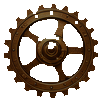
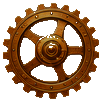
feat: yan sutun/kose carklari, kondansator isiklari ve buhar Vocal Lab'a bagli; tum carklar asset disliyle
- sag sutun: vana + 2 kose carki surekli doner; 2 boru carki, 4 kondansator isigi ve buhar yalniz Vocal Lab (CHAIN ON) acikken
- eski carklar zeminden silindi, carklarin arkasinda borular devam eder, kose carklarinin arkasi koyu izgara
- Session/Enhancer/yan carklar sk-gear.png'den (seffaf aralar, koyulastirilmis ve doygunlugu artirilmis)
- araclar: studio_sidefx.py, studio_sessplate.py, studio_sgears.py

diff --git a/src/preload.js b/src/preload.js
@@ -2736,8 +2736,8 @@ if (isAutotunePage()) {
     .enh-gear i { position:absolute; inset:0; background:center / 100% 100% no-repeat; animation:enh-spin 16s linear infinite; animation-play-state:paused; }
     .section.enh.enh-on .enh-gear i { animation-play-state:running; }
     .enh-gear.big { -webkit-mask-image:${T('sk-st-gear-big-mask.png')}; } .enh-gear.big i { background-image:${T('sk-st-gear-big.png')}; }
-    .enh-gear.r { -webkit-mask-image:${T('sk-st-gear-r-mask.png')}; } .enh-gear.r i { background-image:${T('sk-st-gear-r.png')}; animation-duration:9s; animation-direction:reverse; }
-    .enh-gear.l { -webkit-mask-image:${T('sk-st-gear-l-mask.png')}; } .enh-gear.l i { background-image:${T('sk-st-gear-l.png')}; animation-duration:11s; animation-direction:reverse; }
+    .enh-gear.r { -webkit-mask-image:${T('sk-st-sfx-er-mask.png')}; } .enh-gear.r i { background-image:${T('sk-st-sfx-er.png')}; animation-duration:9s; animation-direction:reverse; }
+    .enh-gear.l { -webkit-mask-image:${T('sk-st-sfx-el-mask.png')}; } .enh-gear.l i { background-image:${T('sk-st-sfx-el.png')}; animation-duration:11s; animation-direction:reverse; }
     @keyframes enh-spin { to { transform:rotate(360deg); } }
     /* Session and Key&Tempo wheels (design/tools/studio_wheels.py): turn while a session mode is lit / key or tempo is changed */
     .st-wheel { position:absolute; pointer-events:none; -webkit-mask:center / 100% 100% no-repeat; }
@@ -2749,6 +2749,25 @@ if (isAutotunePage()) {
     .st-wheel.sg-right { -webkit-mask-image:${T('sk-st-sgear-right-mask.png')}; } .st-wheel.sg-right i { background-image:${T('sk-st-sgear-right.png')}; animation-duration:14s; animation-direction:reverse; }
     .st-wheel.sg-top { -webkit-mask-image:${T('sk-st-sgear-top-mask.png')}; } .st-wheel.sg-top i { background-image:${T('sk-st-sgear-top.png')}; animation-duration:10s; }
     .st-wheel.k { -webkit-mask-image:${T('sk-st-wheel-k-mask.png')}; } .st-wheel.k i { background-image:${T('sk-st-wheel-k.png')}; animation:none; }
+    /* side pillars / corners (design/tools/studio_sidefx.py) */
+    .st-fx { position:absolute; inset:0; pointer-events:none; }
+    .st-sfx { pointer-events:none; }
+    .st-sfx i { position:absolute; inset:0; background:center / 100% 100% no-repeat; animation:enh-spin 24s linear infinite; }
+    .st-sfx.sfx-g1 i, .st-sfx.sfx-g2 i { animation-play-state:paused; }
+    .voc-on .st-sfx.sfx-g1 i, .voc-on .st-sfx.sfx-g2 i { animation-play-state:running; }
+    .st-sfx.sfx-g2 i { animation-direction:reverse; } .st-sfx.sfx-bl i { animation-direction:reverse; animation-duration:30s; } .st-sfx.sfx-br i { animation-duration:30s; } .st-sfx.sfx-v i { animation-duration:40s; }
+    .st-sfx.sfx-v { -webkit-mask:${T('sk-st-sfx-v-mask.png')} center / 100% 100% no-repeat; } .st-sfx.sfx-v i { background-image:${T('sk-st-sfx-v.png')}; }
+    .st-sfx.sfx-g1 { -webkit-mask:${T('sk-st-sfx-g1-mask.png')} center / 100% 100% no-repeat; } .st-sfx.sfx-g1 i { background-image:${T('sk-st-sfx-g1.png')}; }
+    .st-sfx.sfx-g2 { -webkit-mask:${T('sk-st-sfx-g2-mask.png')} center / 100% 100% no-repeat; } .st-sfx.sfx-g2 i { background-image:${T('sk-st-sfx-g2.png')}; }
+    .st-sfx.sfx-br { -webkit-mask:${T('sk-st-sfx-br-mask.png')} center / 100% 100% no-repeat; } .st-sfx.sfx-br i { background-image:${T('sk-st-sfx-br.png')}; }
+    .st-sfx.sfx-bl { -webkit-mask:${T('sk-st-sfx-bl-mask.png')} center / 100% 100% no-repeat; } .st-sfx.sfx-bl i { background-image:${T('sk-st-sfx-bl.png')}; }
+    /* capacitor tubes: dark and unlit unless the Vocal Lab is on (then a gentle flicker on top of the painted glow) */
+    .st-vtube { pointer-events:none; background:center / 100% 100% no-repeat; opacity:0; transition:opacity .6s ease; }
+    .st-vtube.t1 { background-image:${T('sk-st-glow-t1.png')}; } .st-vtube.t2 { background-image:${T('sk-st-glow-t2.png')}; } .st-vtube.t3 { background-image:${T('sk-st-glow-t3.png')}; } .st-vtube.tl { background-image:${T('sk-st-glow-tl.png')}; }
+    .voc-on .st-vtube { opacity:1; }
+    .st-vsteam { pointer-events:none; opacity:0; background:${T('sk-smoke-r.png')} center / 100% 100% no-repeat; transform-origin:14% 96%; }
+    .voc-on .st-vsteam { animation:st-vsteam 4.8s linear infinite; }
+    @keyframes st-vsteam { 0% { opacity:0; transform:translate(-3%,14%) scale(.55,.45); } 12% { opacity:.95; } 45% { opacity:.9; transform:translate(3%,2%) scale(.95,.92) skewX(-4deg); } 75% { opacity:.55; transform:translate(10%,-13%) scale(1.12,1.15) skewX(3deg); } 100% { opacity:0; transform:translate(19%,-27%) scale(1.3,1.35) skewX(-2deg); } }
     .eq-tube { position:absolute; pointer-events:none; border-radius:30%; z-index:3; transition:backdrop-filter .3s, background .3s; }
     .section.eq.eq-off .eq-tube { backdrop-filter:brightness(.28) saturate(.25); -webkit-backdrop-filter:brightness(.28) saturate(.25); background:#0a060255; }
     .skin .section.eq.eq-off .eq-geq .geqfill { opacity:.25; box-shadow:none; }
@@ -3325,6 +3344,13 @@ if (isAutotunePage()) {
       [[2786,164,2878,256],[2915,164,3007,256],[3042,164,3134,256],[3167,164,3259,256]].forEach(([x0,y0,x1,y1],i)=>stPlace(enhKnobs[i],x0,y0,x1,y1));
       q(enhSection,'.switches')?.classList.add('st-enh-switches');
       stPlace(q(sessSection,'.sg-big'),97,602,341,846); stPlace(q(sessSection,'.sg-right'),319,639,465,785); stPlace(q(sessSection,'.sg-top'),294,589,396,691); stPlace(q(tuneSection,'.st-wheel.k'),579,538,817,776);
+      { // side pillars and corners: wheels (valve + 2 corner gears always turn; the 2 pipe gears, capacitor glow and steam only while the Vocal Lab is on)
+        const fxLayer=h('div','st-fx'); consoleEl.prepend(fxLayer);
+        for (const [n,x0,y0,x1,y1] of [['v',4050,555,4154,659],['g1',4046,834,4254,1042],['g2',4094,1193,4298,1397],['br',4218,1329,4336,1447],['bl',16,1331,128,1443]]) { const w=h('div','st-sfx sfx-'+n); w.appendChild(h('i')); fxLayer.appendChild(w); stPlace(w,x0,y0,x1,y1); }
+        for (const [n,x0,y0,x1,y1] of [['t1',4048,190,4176,420],['t2',4170,345,4296,592],['t3',4262,1112,4308,1194],['tl',40,1066,82,1142]]) { const t=h('div','st-vtube '+n); fxLayer.appendChild(t); stPlace(t,x0,y0,x1,y1); }
+        for (let i=0;i<3;i++) { const sm=h('div','st-vsteam'); sm.style.animationDelay=(-i*1.6)+'s'; fxLayer.appendChild(sm); stPlace(sm,4205,23,4345,213); }
+        consoleEl.classList.toggle('voc-on', !!fxState.voc.on);
+      }
       stPlace(q(enhSection,'.enh-gear.big'),2889,527,3149,787); stPlace(q(enhSection,'.enh-gear.r'),3080,578,3218,716); stPlace(q(enhSection,'.enh-gear.l'),2816,579,2966,729);
       const enhBtns=qa(enhSection,'.switches > .btn'); stPlace(enhBtns[0],2778,333,3262,393);
       enhBtns.slice(1).forEach((el,i)=>stPlace(el,[[2780,420,2930,480],[2950,420,3097,480],[3117,420,3262,480]][i][0],420,[[2780,420,2930,480],[2950,420,3097,480],[3117,420,3262,480]][i][2],480));
@@ -3989,7 +4015,8 @@ if (isAutotunePage()) {
       if (immediate) swap(); else fx.irTimer = setTimeout(swap, 50);
     }
   }
-  function applyVocalFxAll(deferIR) { for (const fx of vocalFxInstances) { routeVocalFx(fx); applyVocalFx(fx, false, deferIR === true); } }
+  function applyVocalFxAll(deferIR) { for (const fx of vocalFxInstances) { routeVocalFx(fx); applyVocalFx(fx, false, deferIR === true); } studio.consoleEl?.classList.toggle('voc-on', !!fxState.voc.on); }
+  setInterval(() => studio.consoleEl?.classList.toggle('voc-on', !!fxState.voc.on), 700); // safety net: side-pillar effects follow the Vocal Lab switch
 
   // ---- Auto-tune (mic): pitch correction runs in a hidden local window and returns over a local WebRTC link; this page plays it into the Vocal Lab chain. ----
   const AT_KEYS = ['C', 'C#', 'D', 'D#', 'E', 'F', 'F#', 'G', 'G#', 'A', 'A#', 'B'];

diff --git a/design/tools/studio_sidefx.py b/design/tools/studio_sidefx.py
@@ -1,0 +1,164 @@
+# Side-pillar / corner effects of the Studio drawer, cut out of the backdrop (design/ref/sk-studio.pre-sidefx.jpg -> design/tex/sk-studio.jpg):
+#   * the painted steam above the right capacitor tube is painted out (live steam sprites replace it; see studio_bgfx in preload.js)
+#   * five wheels (red valve, 2 pipe-gears, 2 corner gears) become rotating sprites sk-st-sfx-<n>.png + static masks sk-st-sfx-<n>-mask.png
+# usage: python -I design/tools/studio_sidefx.py <pre.jpg> <out.jpg>        preview a wheel: ... --test <name> <angle> <out.png>
+import sys
+import numpy as np
+from PIL import Image, ImageFilter
+from scipy import ndimage as ndi
+from scipy.ndimage import map_coordinates
+SRC = sys.argv[1] if len(sys.argv) > 1 and not sys.argv[1].startswith('--') else 'design/ref/sk-studio.pre-sidefx.jpg'
+src = Image.open(SRC).convert('RGB'); A = np.asarray(src).astype(np.float32); L = A.mean(axis=2)
+# name: centre x, y, hub r, outer r, spokes, wedge centre angle (deg, a clean spoke), excluded discs in front (cx, cy, r)
+WHEELS = {
+    'v':  dict(c=(4102, 607), ri=17, ro=49, n=6, a=150, excl=[]),
+    'g1': dict(c=(4150, 938), ri=40, ro=101, n=8, a=225, excl=[]),
+    'g2': dict(c=(4196, 1295), ri=38, ro=99, n=8, a=0, excl=[]),
+    'br': dict(c=(4277, 1388), ri=17, ro=56, n=8, a=225, excl=[]),
+    'bl': dict(c=(72, 1387), ri=17, ro=53, n=8, a=315, excl=[]),
+    'el': dict(c=(2891, 654), ri=46, ro=72, n=0, a=0, excl=[(3019.5, 657.5, 131)], bar=(641, 677), frame=728),   # Enhancer side wheels (behind the cross bar,
+    'er': dict(c=(3149, 647), ri=40, ro=66, n=0, a=0, excl=[(3019.5, 657.5, 131)], bar=(641, 677), frame=728),   #  the frame and the big wheel)
+}
+def build_ring(n):
+    P = WHEELS[n]; CX, CY = P['c']; RI, RO = P['ri'], P['ro']; W = 360.0 / P['n']; W0 = P['a'] - W / 2
+    R = int(RO + 3); S = 2 * R; x0, y0 = int(CX - R), int(CY - R)
+    yy, xx = np.mgrid[0:S, 0:S].astype(np.float32); px, py = xx + x0, yy + y0
+    d = np.hypot(px - CX, py - CY); th = np.degrees(np.arctan2(CY - py, px - CX)) % 360
+    st = np.radians(W0 + ((th - W0) % W)); sx = CX + d * np.cos(st); sy = CY - d * np.sin(st)
+    rgb = np.dstack([map_coordinates(A[..., c], [sy, sx], order=1, mode='nearest') for c in range(3)])
+    m = ((d >= RI) & (d <= RO)).astype(np.float32)
+    for ex, ey, er in P['excl']: m[np.hypot(px - ex, py - ey) <= er] = 0
+    alpha = np.where((d >= RI - 1) & (d <= RO + 1), 255, 0).astype(np.uint8)
+    sprite = Image.fromarray(np.dstack([rgb.clip(0, 255).astype(np.uint8), alpha]))
+    mask = Image.fromarray((m * 255).astype(np.uint8)).filter(ImageFilter.GaussianBlur(0.7))
+    return (x0, y0, S), sprite, mask
+GEAR_DIM = 0.66
+MESH_BEHIND = ('g2', 'br', 'bl')
+ASSET = ('g1', 'g2', 'br', 'bl', 'el', 'er')            # replaced by whole gears from design/tex/sk-gear.png; 'v' (valve) stays a cut-out ring
+def build_asset(n):
+    P = WHEELS[n]; CX, CY = P['c']; RO = P['ro']
+    R = int(RO + 3); S = 2 * R; x0, y0 = int(CX - R), int(CY - R)
+    yy, xx = np.mgrid[0:S, 0:S].astype(np.float32); px, py = xx + x0, yy + y0; d = np.hypot(px - CX, py - CY)
+    D = int(round(2 * (RO + 2))); g = Image.open('design/tex/sk-gear.png').convert('RGBA').resize((D, D), Image.LANCZOS)
+    base = Image.new('RGBA', (S, S), (0, 0, 0, 0)); base.paste(g, ((S - D) // 2, (S - D) // 2))
+    arr = np.asarray(base).astype(np.float32); rgb = arr[..., :3]; gm = arr[..., 3] > 128
+    m = (d <= RO + 1).astype(np.float32)
+    for ex, ey, er in P['excl']: m[np.hypot(px - ex, py - ey) <= er] = 0
+    if P.get('bar'): m[(py >= P['bar'][0]) & (py <= P['bar'][1])] = 0
+    if P.get('frame'): m[py >= P['frame']] = 0
+    k = GEAR_DIM   # darkened to sit in the backdrop (the raw asset is far brighter than the painted scene)
+    rgb = rgb * k; gray = rgb.mean(axis=2, keepdims=True); rgb = gray + (rgb - gray) * 1.45   # darker but richer
+    sprite = Image.fromarray(np.dstack([(rgb).clip(0, 255).astype(np.uint8), np.where(gm, 255, 0).astype(np.uint8)]))
+    mask = Image.fromarray((m * 255).astype(np.uint8)).filter(ImageFilter.GaussianBlur(0.7))
+    return (x0, y0, S), sprite, mask
+def paint_out_wheels(out):
+    """Paint the old baked wheels out of the backdrop by diffusing the surrounding colours into the disc (no flat disc, no visible
+    edge), so the live gears' transparent gaps show what could plausibly be behind them (pipes / plate)."""
+    rng = np.random.default_rng(9); H, W_ = out.shape[:2]
+    for n in ASSET:
+        P = WHEELS[n]; CX, CY = P['c']; RO = P['ro'] + 1; R = RO + 24
+        xa, xb, ya, yb = max(int(CX - R), 0), min(int(CX + R), W_), max(int(CY - R), 0), min(int(CY + R), H)
+        yy, xx = np.mgrid[ya:yb, xa:xb]; d = np.hypot(xx - CX, yy - CY); reg = out[ya:yb, xa:xb].copy()
+        hole = d <= RO
+        for ex, ey, er in P['excl']: hole &= np.hypot(xx - ex, yy - ey) > er + 1       # parts in front of the wheel stay painted
+        if P.get('bar'): hole &= ~((yy >= P['bar'][0] - 1) & (yy <= P['bar'][1] + 1))
+        if P.get('frame'): hole &= yy < P['frame'] - 1
+        known = ~hole; fill = reg.copy()
+        for c in range(3):
+            ch = reg[..., c].copy(); ch[hole] = reg[..., c][known & (d < RO + 14)].mean()
+            for _ in range(700):
+                ch = np.where(hole, ndi.uniform_filter(ch, 9, mode='nearest'), reg[..., c])
+            fill[..., c] = ch
+        fill = fill * 0.97 + rng.normal(0, 2.0, reg.shape[:2])[..., None]
+        if n in MESH_BEHIND:                                           # a dark mesh plate behind the gear instead of the pale diffused fill
+            mesh = np.asarray(Image.open('design/ref/mesh-ref.png').convert('RGB').crop((200, 300, 1000, 1100)).resize((120, 120), Image.LANCZOS)).astype(np.float32)
+            lum = mesh.mean(axis=2, keepdims=True); tint = lum * np.array([1.0, 0.6, 0.32]) * 0.62
+            tiled = np.tile(tint, (int(np.ceil((yb - ya) / 120)), int(np.ceil((xb - xa) / 120)), 1))[:yb - ya, :xb - xa]
+            fill = tiled * 0.9 + np.array([7.0, 4.0, 2.0])
+        al = np.clip((RO + 2.0 - d) / 9.0, 0, 1)[..., None] ** 1.5   # wide soft fade: no visible ring around the gear
+        out[ya:yb, xa:xb] = reg * (1 - al) + fill * al
+    return out
+def continue_pipes(out, ref):
+    """Pipes that ran behind the old wheels: tile a clean piece of the same pipe (taken from ref = the untouched backdrop) through the wheel
+    discs, only inside the discs, so they keep running behind the live gears' transparent gaps."""
+    H, W_ = out.shape[:2]
+    # (x0, x1, clean source rows y0..y1, destination rows, wheel the pipe runs behind)
+    PIPES = [(4058, 4106, 1044, 1092, 840, 1044, 'g1'), (4170, 4216, 1098, 1136, 1190, 1310, 'g2'), (4170, 4216, 1098, 1136, 840, 1046, 'g1')]
+    for x0, x1, sy0, sy1, dy0, dy1, wn in PIPES:
+        P = WHEELS[wn]; CX, CY = P['c']; RO = P['ro'] + 1
+        strip = ref[sy0:sy1, x0:x1].copy(); sh = sy1 - sy0
+        col = np.zeros((dy1 - dy0, x1 - x0, 3), np.float32)
+        for i in range(0, dy1 - dy0, sh):
+            piece = strip if (i // sh) % 2 == 0 else strip[::-1]
+            n = min(sh, dy1 - dy0 - i); col[i:i + n] = piece[:n]
+        yy, xx = np.mgrid[dy0:dy1, x0:x1]
+        inside = (np.hypot(xx - CX, yy - CY) <= RO).astype(np.float32)
+        edge_x = np.clip(np.minimum(xx - x0, x1 - 1 - xx) / 4.0, 0, 1)
+        edge_y = np.clip(np.minimum(yy - dy0, dy1 - 1 - yy) / 8.0, 0, 1)
+        al = (inside * edge_x * edge_y)[..., None]
+        out[dy0:dy1, x0:x1] = out[dy0:dy1, x0:x1] * (1 - al) + col * al
+    return out
+def build(n):
+    return build_asset(n) if n in ASSET else build_ring(n)
+def remove_steam(a):
+    X0, Y0, X1, Y1 = 4160, 0, 4344, 222
+    reg = a[Y0:Y1, X0:X1]
+    haze = np.zeros(reg.shape[:2], bool); haze[0:200, 12:] = True   # the whole cloud box above the funnel (x >= 4172, y < 200)
+    known = ~haze; rng = np.random.default_rng(3); filled = reg.copy()
+    for c in range(3):                                              # diffusion fill from the surroundings (pipe on the left, funnel below)
+        ch = reg[..., c].copy(); ch[haze] = reg[..., c][known & (np.arange(Y1 - Y0)[:, None] < 215)].mean() * 0.8
+        for _ in range(900):
+            sm = ndi.uniform_filter(ch, 9, mode='nearest'); ch = np.where(haze, sm, reg[..., c])
+        filled[..., c] = ch
+    yy = np.arange(Y1 - Y0)[:, None, None]
+    filled = filled * 0.55 + np.array([22.0, 13.0, 8.0]) * 0.45 + rng.normal(0, 4.0, filled.shape[:2])[..., None]   # plate-coloured, grainy
+    al = ndi.gaussian_filter(haze.astype(np.float32), 3.0)[..., None]
+    a[Y0:Y1, X0:X1] = reg * (1 - al) + filled * al
+    # the right-hand pipe used to disappear behind the steam: extend it upward from its clean lower part (fades out at the top)
+    strip = a[216:262, 4270:4312].copy(); H = strip.shape[0]
+    for k in range(3):
+        y1 = 216 - k * H; y0 = y1 - H
+        if y0 < 110: break
+        fade = np.clip((y0 - 105) / 50.0, 0, 1) if k == 2 else 1.0
+        blend = np.full((H, 1, 1), 1.0 if k < 2 else float(fade), np.float32)
+        a[y0:y1, 4270:4312] = a[y0:y1, 4270:4312] * (1 - blend) + strip[::-1 if k % 2 else 1] * blend
+    # pipe elbow from the page-background asset (design/tex/sk-bg.jpg: the elbow left of the red valve), mirrored, closes the pipe's top
+    bg = Image.open('design/tex/sk-bg.jpg').convert('RGB').crop((1636, 594, 1726, 662))           # 90 x 68 bg px
+    K = 1.68; bw, bh = 90, 68
+    yy, xx = np.mgrid[0:bh, 0:bw].astype(np.float32); X, Y = xx + 1636, yy + 594
+    rr = np.hypot(X - 1688, Y - 644)
+    geo = ((rr >= 26) & (rr <= 50) & (X <= 1688) & (Y <= 644)) | ((X >= 1638) & (X <= 1662) & (Y >= 644)) | ((X >= 1688) & (Y >= 595) & (Y <= 620))
+    el = np.asarray(bg.resize((int(bw * K), int(bh * K)), Image.LANCZOS)).astype(np.float32)[:, ::-1]
+    al = ndi.gaussian_filter(np.asarray(Image.fromarray((geo * 255).astype(np.uint8)).resize((int(bw * K), int(bh * K)), Image.BILINEAR)).astype(np.float32)[:, ::-1] / 255.0, 1.2)
+    al[-14:] *= np.linspace(1, 0, 14)[:, None]
+    ex0, ey0 = 4165, 72; h_, w_ = al.shape
+    sl = (slice(ey0, ey0 + h_), slice(ex0, ex0 + w_))
+    a[sl] = a[sl] * (1 - al[..., None]) + el * 0.92 * al[..., None]
+    return a
+if __name__ == '__main__':
+    if '--test' in sys.argv:
+        i = sys.argv.index('--test'); n, ang, out = sys.argv[i + 1], float(sys.argv[i + 2]), sys.argv[i + 3]
+        (x0, y0, S), sprite, mask = build(n); rot = sprite.rotate(ang, resample=Image.BICUBIC)
+        la = np.asarray(rot.split()[3]).astype(np.float32) * np.asarray(mask).astype(np.float32) / 255.0
+        rot.putalpha(Image.fromarray(la.astype(np.uint8))); comp = src.copy(); comp.paste(rot, (x0, y0), rot)
+        cx, cy = WHEELS[n]['c']; R = WHEELS[n]['ro'] + 40; comp.crop((cx - R, cy - R, cx + R, cy + R)).resize((520, 520)).save(out)
+    else:
+        for n in WHEELS:
+            (x0, y0, S), sprite, mask = build(n); sprite.save(f'design/tex/sk-st-sfx-{n}.png')
+            o = Image.new('RGBA', (S, S), (0, 0, 0, 0)); o.putalpha(mask); o.save(f'design/tex/sk-st-sfx-{n}-mask.png'); print(n, x0, y0, x0 + S, y0 + S)
+        out = continue_pipes(paint_out_wheels(remove_steam(A.copy())), A)
+        # capacitor tubes: the glow (saturated orange light) is dimmed IN the backdrop; the original glow is kept as a light sprite
+        # sk-st-glow-<n>.png (alpha = glow strength) that the drawer fades in while the Vocal Lab is on. Natural shape, no box.
+        TUBES = {'t1': (4048, 190, 4176, 420), 't2': (4170, 345, 4296, 592), 't3': (4262, 1112, 4308, 1194), 'tl': (40, 1066, 82, 1142)}   # tube + the small white highlight above it
+        for n, (x0, y0, x1, y1) in TUBES.items():
+            reg = A[y0:y1, x0:x1]; Rr, Gg, Bb = reg[..., 0], reg[..., 1], reg[..., 2]
+            g = np.clip((Rr - 95) / 110.0, 0, 1) * np.clip((Rr - Bb - 50) / 90.0, 0, 1)
+            if n in ('t1', 't2'):                                          # small white highlight on the cap right above the glass
+                band = np.zeros_like(g); band[:44] = 1; cx = reg.shape[1] // 2
+                band[:, :cx - 26] = 0; band[:, cx + 26:] = 0
+                g = np.maximum(g, band * np.clip((reg.min(axis=2) - 135) / 60.0, 0, 1))
+            g = ndi.gaussian_filter(g, 1.6); g = np.clip(g * 1.25, 0, 1)
+            sp = np.dstack([reg.clip(0, 255).astype(np.uint8), (g * 255).astype(np.uint8)]); Image.fromarray(sp).save(f'design/tex/sk-st-glow-{n}.png')
+            dim = reg * np.array([0.34, 0.27, 0.22]) + np.array([6.0, 3.0, 2.0])        # unlit: dull dark-amber glass
+            out[y0:y1, x0:x1] = reg * (1 - g[..., None]) + dim * g[..., None]
+        Image.fromarray(np.clip(out, 0, 255).astype(np.uint8)).save(sys.argv[2], quality=88)

diff --git a/design/tools/studio_sgears.py b/design/tools/studio_sgears.py
@@ -14,23 +14,13 @@ def build(n):
     R = int(RO + 3); S = 2 * R; x0, y0 = int(CX - R), int(CY - R)
     yy, xx = np.mgrid[0:S, 0:S].astype(np.float32); px, py = xx + x0, yy + y0; d = np.hypot(px - CX, py - CY)
     D = int(round(2 * (RO + 1))); g = Image.open('design/tex/sk-gear.png').convert('RGBA').resize((D, D), Image.LANCZOS)
-    a = g.split()[3].filter(ImageFilter.MinFilter(3)); g.putalpha(a)   # drop the light antialias fringe
-    # the hub has tiny see-through specks in the asset: fill only small enclosed holes (not the spoke openings) with the nearest hub colour
-    from scipy import ndimage as ndi
-    ga_ = np.asarray(g).copy(); op = ga_[..., 3] >= 128
-    lab, nl = ndi.label(~op); gy, gx = np.mgrid[0:D, 0:D]; rr = np.hypot(gx - D / 2 + .5, gy - D / 2 + .5)
-    area = ndi.sum(np.ones_like(lab), lab, range(1, nl + 1)); small = np.zeros_like(op)
-    for i, ar in enumerate(area, 1):
-        if ar < 0.004 * D * D and rr[lab == i].max() < 0.42 * D / 2: small |= lab == i
-    small = ndi.binary_dilation(small, iterations=1) & ~op | small
-    idx = ndi.distance_transform_edt(~(op & ~small), return_distances=False, return_indices=True)
-    filled = ga_[idx[0], idx[1]]; ga_[small] = filled[small]; ga_[small, 3] = 255; g = Image.fromarray(ga_)
     base = Image.new('RGBA', (S, S), (0, 0, 0, 0)); base.paste(g, ((S - D) // 2, (S - D) // 2))   # real transparency between teeth and spokes
     arr = np.asarray(base).astype(np.float32); rgb = arr[..., :3]; ga = arr[..., 3] > 128
     m = (d <= RO).astype(np.float32); m[py < TOP_Y] = 0; m[py >= FRAME_Y] = 0
     # (no clipping by the big gear: it is stacked on top in the DOM, so its transparent tooth gaps show the neighbours behind it)
-    k = {'big': 0.66, 'right': 0.59, 'top': 0.48}[n]   # same brightness as the first (opaque) version, measured against the baked wheels
+    k = 0.66   # darkened to sit in the backdrop (the raw asset is far brighter than the painted scene)
     rgb = rgb * k
+    gray = rgb.mean(axis=2, keepdims=True); rgb = gray + (rgb - gray) * 1.45   # darker but richer: saturation up, not washed out
     sprite = Image.fromarray(np.dstack([rgb.clip(0, 255).astype(np.uint8), np.where(ga, 255, 0).astype(np.uint8)]))
     mask = Image.fromarray((m * 255).astype(np.uint8)).filter(ImageFilter.GaussianBlur(0.7))
     return (x0, y0, S), sprite, mask, k

diff --git a/design/tools/studio_gears.py b/design/tools/studio_gears.py
@@ -11,9 +11,9 @@ from scipy.ndimage import map_coordinates
 src = Image.open('design/tex/sk-studio.jpg').convert('RGB'); A = np.asarray(src).astype(np.float32)
 L = A.mean(axis=2)
 # name: (cx, cy, inner r, outer r, wedge start deg (ccw from 3 o'clock), wedge width deg, spin speed hint)
-GEARS = {'big': (3019.5, 657.5, 97, 127, 66.0, 360.0 / 7), 'r': (3149.0, 647.0, 40, 66, 22.0, 72.0), 'l': (2891.0, 654.0, 46, 72, 86.0, 72.0)}
+GEARS = {'big': (3019.5, 657.5, 97, 127, 66.0, 360.0 / 7)}   # the two side wheels are asset gears now: see studio_sidefx.py (el / er)
 BIG = (3019.5, 657.5, 131); BAR = (641, 677); FRAME_Y = 728
-ASSET = {'l': 'design/tex/sk-gear.png', 'r': 'design/tex/sk-gear.png'}   # wheels replaced by a whole clean gear from the asset set (colour-matched), instead of a cut ring
+ASSET = {}   # wheels replaced by a whole clean gear from the asset set (colour-matched), instead of a cut ring
 def build_asset(n):
     CX, CY, RI, RO, W0, W = GEARS[n]
     R = int(RO + 3); S = 2 * R; x0, y0 = int(CX - R), int(CY - R)
